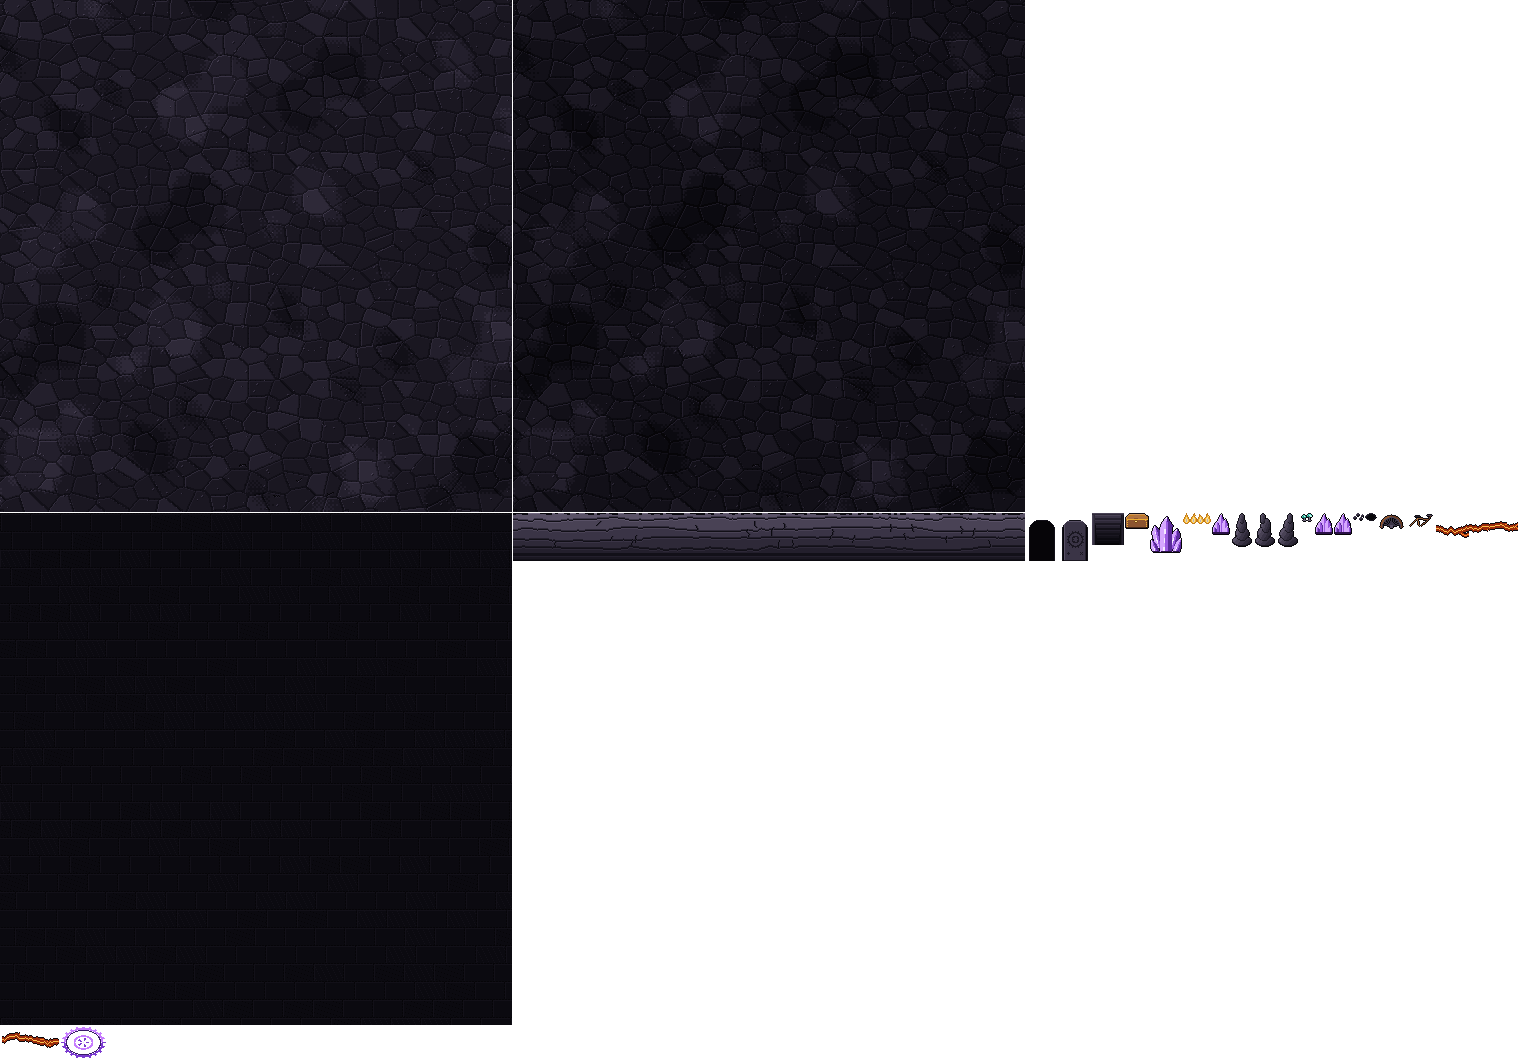
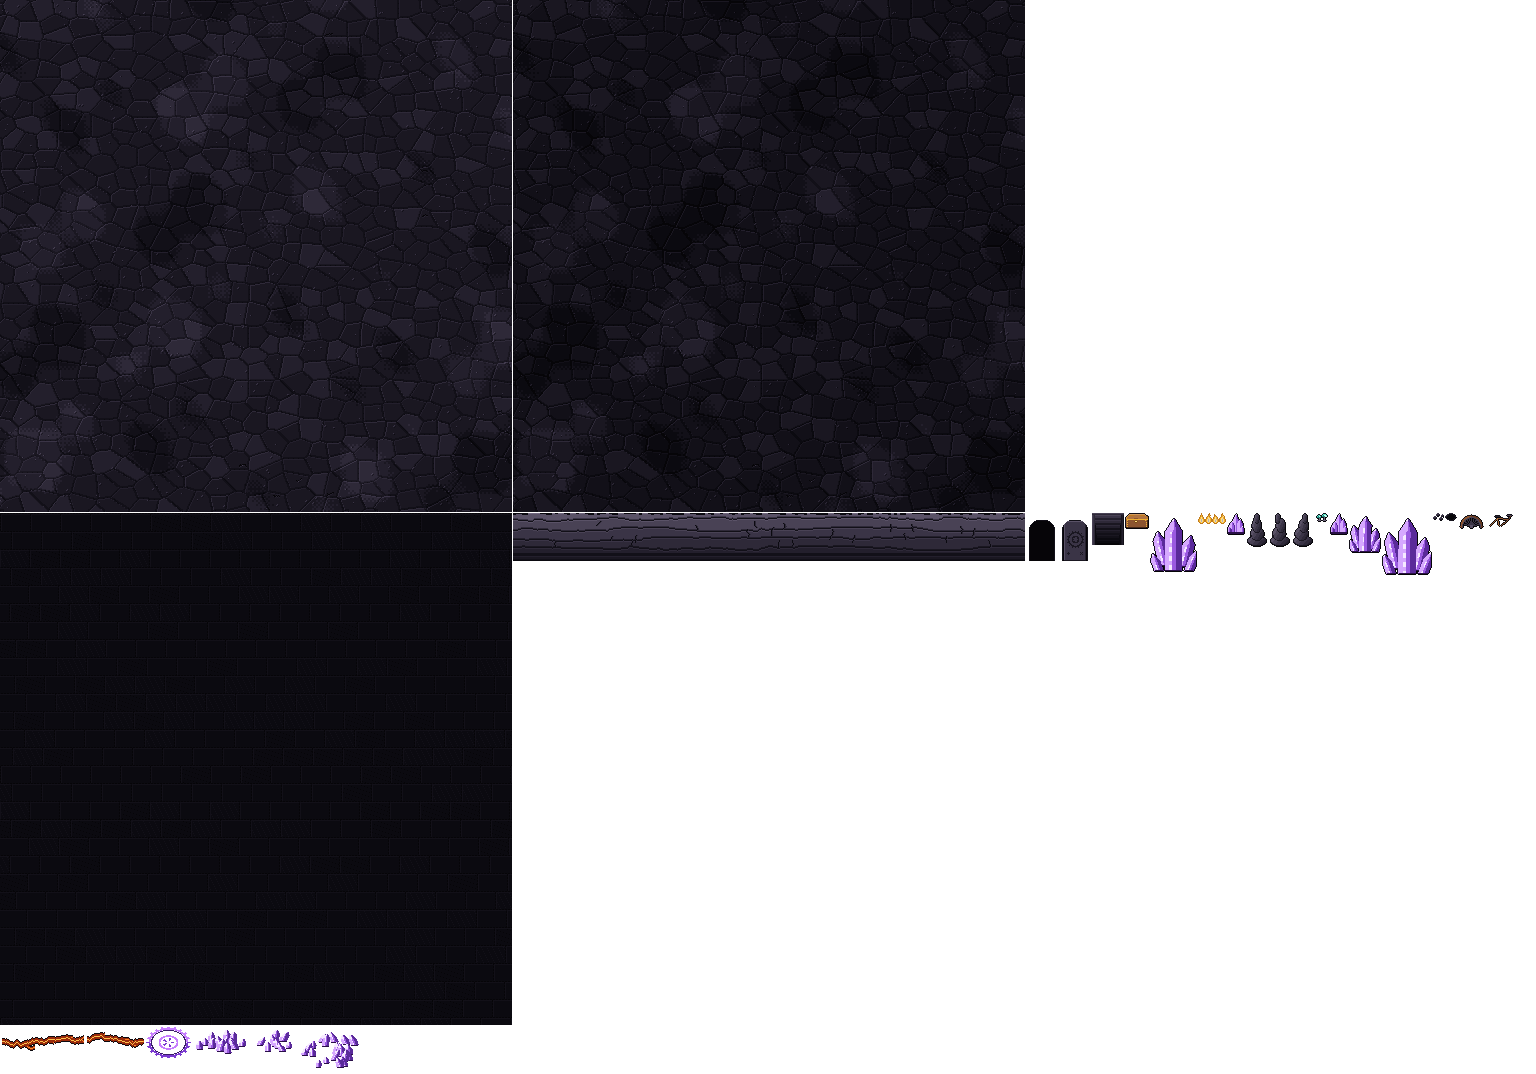
Purgatour Deep: bigger crystal clusters and refracting crystal shard beds
- Large faceted crystal clusters (crystalM, crystalL) along walls and around rune seals; pillar crystals 1.5x
- Shard beds breaking through the floor refract the lit scene and cast violet light
- Light budget: all dynamic lights plus the 24 static lights nearest the view centre

Claude-Session: https://claude.ai/code/session_01ADd9axuUZiyWLZNYirszBj

Changed region(s): [[0.0, 0.4674, 1.0, 0.5609], [0.0, 0.9348, 0.3438, 1.0]]

diff --git a/src/games/dungeon/render/world32.ts b/src/games/dungeon/render/world32.ts
@@ -16,6 +16,7 @@ export interface Decal { name: string; px: number; py: number; ch?: number }
 /** Floor pieces that glow (lava fissures, rune seals): redrawn over the lighting. */
 export const GLOW_DECALS: Record<string, { c: [number, number, number]; r: number; i: number }> = {
   fissure: { c: [255, 120, 40], r: 70, i: 0.9 }, fissure2: { c: [255, 120, 40], r: 60, i: 0.85 }, rune: { c: [190, 120, 255], r: 90, i: 0.9 },
+  shards: { c: [180, 130, 255], r: 70, i: 0.7 }, shards2: { c: [180, 130, 255], r: 56, i: 0.6 }, shards3: { c: [180, 130, 255], r: 90, i: 0.8 },
 };
 /** A prop that gives off its own light. */
 export interface PropLight { key: string; x: number; y: number; r: number; c: [number, number, number]; i: number; name: string; cx: number; foot: number }
@@ -28,14 +29,15 @@ const DRESS: Record<ZoneId, { big: string[]; small: string[] }> = {
   keep: { big: ['barrel', 'crate', 'barrel', 'pillar', 'borne'], small: ['candelabra', 'crate', 'barrel'] },
   crypt: { big: ['sarcophagus', 'tomb', 'coffin', 'urn'], small: ['urn', 'candles', 'urn'] },
   catacombs: { big: ['skulls', 'sack', 'skulls', 'borne'], small: ['skullCandle', 'sack', 'skullCandle'] },
-  deep: { big: ['stalagmite0', 'stalagmite1', 'stalagmite2', 'crystalM'], small: ['glowcaps', 'crystalS', 'glowcaps'] },
+  deep: { big: ['stalagmite0', 'crystalL', 'stalagmite1', 'crystalM', 'stalagmite2', 'crystalL'], small: ['glowcaps', 'crystalS', 'glowcaps'] },
 };
 export const PROP_LIGHT: Record<string, { c: [number, number, number]; r: number; i: number; glow: boolean }> = {
   candelabra: { c: [255, 200, 120], r: 70, i: 0.75, glow: false },
   candles: { c: [255, 200, 120], r: 62, i: 0.7, glow: false },
   skullCandle: { c: [255, 190, 110], r: 64, i: 0.7, glow: false },
   crystalS: { c: [170, 110, 255], r: 80, i: 0.85, glow: true },
-  crystalM: { c: [170, 110, 255], r: 90, i: 0.9, glow: true },
+  crystalM: { c: [170, 110, 255], r: 100, i: 0.95, glow: true },
+  crystalL: { c: [180, 120, 255], r: 130, i: 1.05, glow: true },
   glowcaps: { c: [90, 230, 200], r: 50, i: 0.65, glow: true },
 };
 export function floorInfo(w: World): FloorInfo {
@@ -120,8 +122,16 @@ function dress(w: World, zone: ZoneId, at: (x: number, y: number) => number): { 
       if (big) centre((x, y) => place('mosaic', x, y) && (ring('skullCandle', x, y, 40, 26), true));
       if (roll < 0.4) centre((x, y) => place('chalk', x + 70, y + 40));
     } else if (zone === 'deep') {
-      if (big && roll < 0.45 && centre((x, y) => place('rune', x, y) && (ring('crystalS', x, y, 40, 26), true))) { /* rune room */ }
+      if (big && roll < 0.45 && centre((x, y) => place('rune', x, y) && (ring('crystalM', x, y, 46, 30), true))) { /* rune room */ }
       else { centre((x, y) => place('fissure', x, y) && (ring('glowcaps', x, y, 56, 30), true)); if (big) centre((x, y) => place('fissure2', x + 60, y + 64)); }
+      // beds of crystal shards breaking through the floor, scattered over the open space
+      const beds = big ? 3 : 1;
+      for (let k = 0, got = 0; k < 30 && got < beds; k++) {
+        const name = k % 3 === 0 && big ? 'shards3' : k % 2 ? 'shards2' : 'shards', rc = size(name); if (!rc) continue;
+        const x = (r.x0 + 1) * T32 + Math.floor(hash(r.x0 + k, r.y0 * 3 + 1) * Math.max(1, (r.w - 2) * T32 - rc[2])) + (rc[2] >> 1);
+        const y = (r.y0 + 1) * T32 + Math.floor(hash(r.x0 * 5, r.y0 + k * 7) * Math.max(1, (r.h - 2) * T32 - rc[3])) + (rc[3] >> 1);
+        if (place(name, x, y)) got++;
+      }
     }
     // floor details on open floor tiles that nothing stands on (weighted toward the zone's common clutter)
     const weights: Record<string, number> = { rubble: 3, broken: 1, bones: 2, bonesF: 2, wheel: 0.4, frame: 0.4 };

diff --git a/src/games/dungeon/render/renderer.ts b/src/games/dungeon/render/renderer.ts
@@ -559,13 +559,13 @@ export function createRenderer(): GameRenderer {
         // Stepped per-pixel lighting with wall occlusion (light32.ts), then the emissive layer on top.
         const dark = s.curse?.kind === 'darkness', zl = ZL[Zn], ox = Math.round(cx), oy = Math.round(cy);
         const grid = { w: w.w, h: w.h, wall: (x: number, y: number) => x < 0 || y < 0 || x >= w.w || y >= w.h || w.tiles[y * w.w + x] === TILE.WALL };
-        const L: Array<Light & { los: Los }> = [];
+        const L: Array<Light & { los: Los }> = [], statics = new Set<object>();
         const add = (key: string | null, x: number, y: number, r: number, c: readonly [number, number, number], i: number) => {
           if (x + r < ox || x - r > ox + W || y + r < oy || y - r > oy + H) return;
           const tx = Math.floor(x / TS), ty = Math.floor(y / TS), rt = Math.ceil(r / TS);
           let los = key ? losCache.get(key) : undefined;
           if (!los) { los = lineOfSight(grid, tx, ty, rt); if (key) losCache.set(key, los); }
-          L.push({ x, y, r, c, i, los });
+          const e = { x, y, r, c, i, los }; L.push(e); if (key) statics.add(e);
         };
         const fl = (k: number) => 1 + Math.sin(t * 9 + k * 2) * 0.04 + Math.sin(t * 23 + k) * 0.03;
         add(null, p.x * TS, p.y * TS - 12, TS * (dark ? 2.2 : 3.2), [255, 236, 210], 0.55);
@@ -579,6 +579,12 @@ export function createRenderer(): GameRenderer {
         let nb = 0;
         for (const b of s.bullets) if (b.friendly && nb++ < 10) add(null, b.x * TS, b.y * TS, TS * 1.6, hexRgb(b.color.length === 7 ? b.color : '#ffd84a'), 0.8);
         for (const f of s.fx) if ((f.kind === 'boom' || f.kind === 'muzzle') && t - f.t0 < f.life) add(null, f.x * TS, f.y * TS, TS * 2.2 * (1 - (t - f.t0) / f.life), hexRgb(f.color.length === 7 ? f.color : '#ffb04a'), 1.2);
+        // budget: every dynamic light, plus the 24 static lights nearest the middle of the view
+        if (statics.size > 24) {
+          const mx = ox + W / 2, my = oy + H / 2, d2 = (l: Light) => (l.x - mx) ** 2 + (l.y - my) ** 2;
+          const keep = new Set([...L].filter((l) => statics.has(l)).sort((a, b) => d2(a) - d2(b)).slice(0, 24));
+          for (let i = L.length - 1; i >= 0; i--) if (statics.has(L[i]) && !keep.has(L[i])) L.splice(i, 1);
+        }
         const amb = dark ? [zl.amb[0] * 0.35, zl.amb[1] * 0.35, zl.amb[2] * 0.4] as const : zl.amb;
         const BW = Math.ceil(W / 2), BH = Math.ceil(H / 2);
         if (!lightC) lightC = document.createElement('canvas');
@@ -603,6 +609,8 @@ export function createRenderer(): GameRenderer {
         }
         if (Zn === 'deep') { const lr = zonePropSize(Zn, 'light'), sp = cut(Zn, 'light'); if (lr && sp && litC) for (const q of info.pillars) if (inView(q)) drawRefracting(gg, sp, q.x * TS + 16 - (lr.w >> 1), q.y * TS + 28 - lr.h, litC, ox, oy, t); gg.save(); openFloorClip(); gg.clip(); drawEmbers(gg, ox, oy, W, H, t); gg.restore(); }
         for (const d of info.glow) { const gr = Zr.rects['decal:' + d.name]; if (!gr || d.px > ox + W || d.px + gr[2] < ox || d.py > oy + H || d.py + gr[3] < oy) continue;
+          const sp = d.name.startsWith('shards') ? cut(Zn, 'decal:' + d.name) : null;
+          if (sp && litC) { drawRefracting(gg, sp, d.px, d.py, litC, ox, oy, t); continue; }
           gg.globalAlpha = 0.7 + 0.3 * Math.sin(t * 1.7 + d.px * 0.05); drawZoneProp(gg, Zn, 'decal:' + d.name, d.px, d.py); gg.globalAlpha = 1; }
         for (const q of info.lit) { // glowing props shine through the dark; candles get flickering flames
           if (q.cx < ox - 40 || q.cx > ox + W + 40 || q.foot < oy - 40 || q.foot > oy + H + 60) continue;

diff --git a/tools/purgatour-art/export.py b/tools/purgatour-art/export.py
@@ -81,7 +81,7 @@ def zone_sheet(z):
     S.add('doorOpen', door_open); S.add('doorLocked', door_locked); S.add('stairs', stairs_img()); S.add('chest', keep.chest())
     # the zone's light source on PILLAR tiles, its wall torch, decor scattered by the renderer, and wall hangings
     light = {'keep': ('brazier', 'flame'), 'crypt': ('brazier', 'gflame'), 'catacombs': ('skullCandle', 'candle'), 'deep': ('crystal', 'crystal')}[z]
-    if z == 'deep': S.add('light', zones.crystal_big(3))
+    if z == 'deep': S.add('light', zones.crystal_big(3, 1.5))
     elif z == 'catacombs':
         base = Image.new('RGBA', (16, 22)); base.alpha_composite(zones.skull_candle(), (4, 0)); base.alpha_composite(keep.pillar().crop((6, 48, 22, 62)).resize((16, 13)), (0, 9))
         S.add('light', zones.skull_candle())
@@ -92,7 +92,7 @@ def zone_sheet(z):
         'keep': [('barrel', keep.barrel()), ('crate', keep.crate()), ('candelabra', keep.candelabra()), ('pillar', keep.pillar()), ('borne', motifs.borne(23))],
         'crypt': [('urn', zones.urn()), ('candles', zones.candles()), ('sarcophagus', zones.sarcophagus()), ('tomb', zones.sarcophagus(True)), ('coffin', zones.coffin())],
         'catacombs': [('skulls', zones.skull_pile()), ('sack', zones.sack()), ('skullCandle', zones.skull_candle()), ('borne', motifs.borne(21))],
-        'deep': [('stalagmite0', zones.stalagmite(0)), ('stalagmite1', zones.stalagmite(1)), ('stalagmite2', zones.stalagmite(2)), ('glowcaps', zones.mushrooms()), ('crystalS', zones.crystal(2)), ('crystalM', zones.crystal(4))],
+        'deep': [('stalagmite0', zones.stalagmite(0)), ('stalagmite1', zones.stalagmite(1)), ('stalagmite2', zones.stalagmite(2)), ('glowcaps', zones.mushrooms()), ('crystalS', zones.crystal(2)), ('crystalM', zones.crystal_big(4)), ('crystalL', zones.crystal_big(6, 1.6))],
     }[z]
     for n, im in decor: S.add('decor:' + n, im)
     hang = {'keep': [('banner', keep.banner()), ('wheel', motifs.wall_wheel())], 'crypt': [('cobweb', zones.cobweb())], 'catacombs': [], 'deep': []}[z]
@@ -104,7 +104,7 @@ def zone_sheet(z):
         'keep': common + [('grate', keep.decal_grate()), ('carpet', keep.carpet(44, 320)), ('rosette', inlays.rosette())],
         'crypt': common + [('bones', zones.bones_decal()), ('bonesF', flip(zones.bones_decal())), ('ledger', inlays.ledger(True, 1)), ('ledger2', inlays.ledger(False, 2))],
         'catacombs': common + [('bones', zones.bones_decal()), ('bonesF', flip(zones.bones_decal())), ('chalk', motifs.chalk('ALLEZ', 9, seed=2)), ('mosaic', inlays.mosaic())],
-        'deep': common + [('wheel', zones.wheel_relic()), ('frame', motifs.frame_relic()), ('fissure', inlays.fissure()), ('fissure2', inlays.fissure(7, 60, 26)), ('rune', inlays.rune())],
+        'deep': common + [('wheel', zones.wheel_relic()), ('frame', motifs.frame_relic()), ('fissure', inlays.fissure()), ('fissure2', inlays.fissure(7, 60, 26)), ('rune', inlays.rune()), ('shards', zones.shard_floor(1, 60, 36, 14)), ('shards2', zones.shard_floor(5, 44, 30, 9)), ('shards3', zones.shard_floor(9, 84, 48, 22))],
     }[z]
     for n, im in decals: S.add('decal:' + n, im)
     # wall-face variants: whole 32 x 48 face tiles with a feature built into the masonry

diff --git a/tools/purgatour-art/zones.py b/tools/purgatour-art/zones.py
@@ -516,13 +516,14 @@ def paint_pool(px, sx, ex, sy, ey, rx, ry, seed=5):
     return water
 
 CRY = ['#2a1048', '#5a2a9a', '#9a5ae0', '#d6a8ff', '#f6eaff']
-def crystal_big(seed=0):
+def crystal_big(seed=0, s=1.0):
     """large violet cluster made of flat-faceted prisms: left face (lit), front face, right face (shade), bright tip edges.
     Each face is one flat colour so the page can refract a different slice of the scene through every facet."""
     V = [hexc(h) for h in CRY]
-    w, hg = 30, 38; im = Image.new('RGBA', (w, hg)); px = im.load(); rnd = random.Random(seed)
+    w, hg = round(30 * s), round(38 * s); im = Image.new('RGBA', (w, hg)); px = im.load(); rnd = random.Random(seed)
     # (base x, base y, half width, height, lean) drawn back to front
     shards = [(9, 34, 3.5, 22, -.22), (21, 35, 3.5, 20, .25), (15, 37, 5.0, 34, .02), (5, 37, 2.5, 11, -.35), (25, 37, 2.6, 13, .4)]
+    shards = [(round(bx * s), min(hg - 1, round(by * s)), hw * s, round(ht * s), ln) for (bx, by, hw, ht, ln) in shards]
     for (bx, by, hw, hgt, lean) in shards:
         tip = hw * 1.6
         for y in range(by - hgt, by + 1):
@@ -538,3 +539,30 @@ def crystal_big(seed=0):
         for x in range(int(bx - hw), int(bx + hw) + 1):
             if 0 <= x < w and px[x, by][3]: px[x, by] = V[0]
     return selout(pad(im))
+
+def shard_floor(seed=0, W=60, H=30, n=16):
+    """Deep: a bed of crystal shards grown flat through the floor, each a small faceted lozenge (lit face, front face,
+    shade face) so the renderer can refract the scene through them. Low profile, 3/4 view."""
+    V = [hexc(h) for h in CRY]
+    im = Image.new('RGBA', (W, H)); px = im.load(); rnd = random.Random(seed)
+    pts = []
+    for _ in range(n * 4):
+        if len(pts) >= n: break
+        dx, dy = rnd.uniform(-1, 1), rnd.uniform(-1, 1)
+        if dx * dx + dy * dy > 1: continue
+        k = (dx * dx + dy * dy) ** .25; dx, dy = dx * k, dy * k   # pull toward the middle: a dense heart, sparse rim
+        pts.append((W / 2 + dx * (W / 2 - 6), H / 2 + 4 + dy * (H / 2 - 8)))
+    pts.sort(key=lambda q: q[1])
+    for (cx, cy) in pts:
+        mid = 1 - min(1, math.hypot((cx - W / 2) / (W / 2), (cy - H / 2) / (H / 2)))
+        L = rnd.uniform(4, 7) + mid * rnd.uniform(4, 9); hw = rnd.uniform(1.6, 2.4) + mid * 1.2; lean = rnd.uniform(-.55, .55)
+        for k in range(int(L) + 1):                 # a short prism standing up from the floor, leaning
+            y = int(cy) - k; xc = cx + lean * k
+            tip = hw * 1.5; half = hw if k < L - tip else max(.3, hw * (L - k) / tip)
+            for x in range(int(xc - half - .5), int(xc + half + .5) + 1):
+                if 0 <= x < W and 0 <= y < H:
+                    u = (x + .5 - xc) / max(.6, half)
+                    px[x, y] = V[4] if (k >= L - tip and u < -.1) or abs(u + .3) < .12 else V[3] if u < -.3 else V[2] if u < .35 else V[1]
+        for x in range(int(cx - hw), int(cx + hw) + 1):   # dark socket where it breaks through the stone
+            if 0 <= x < W and 0 <= int(cy) + 1 < H and px[x, int(cy) + 1][3] == 0: px[x, int(cy) + 1] = V[0]
+    return im
